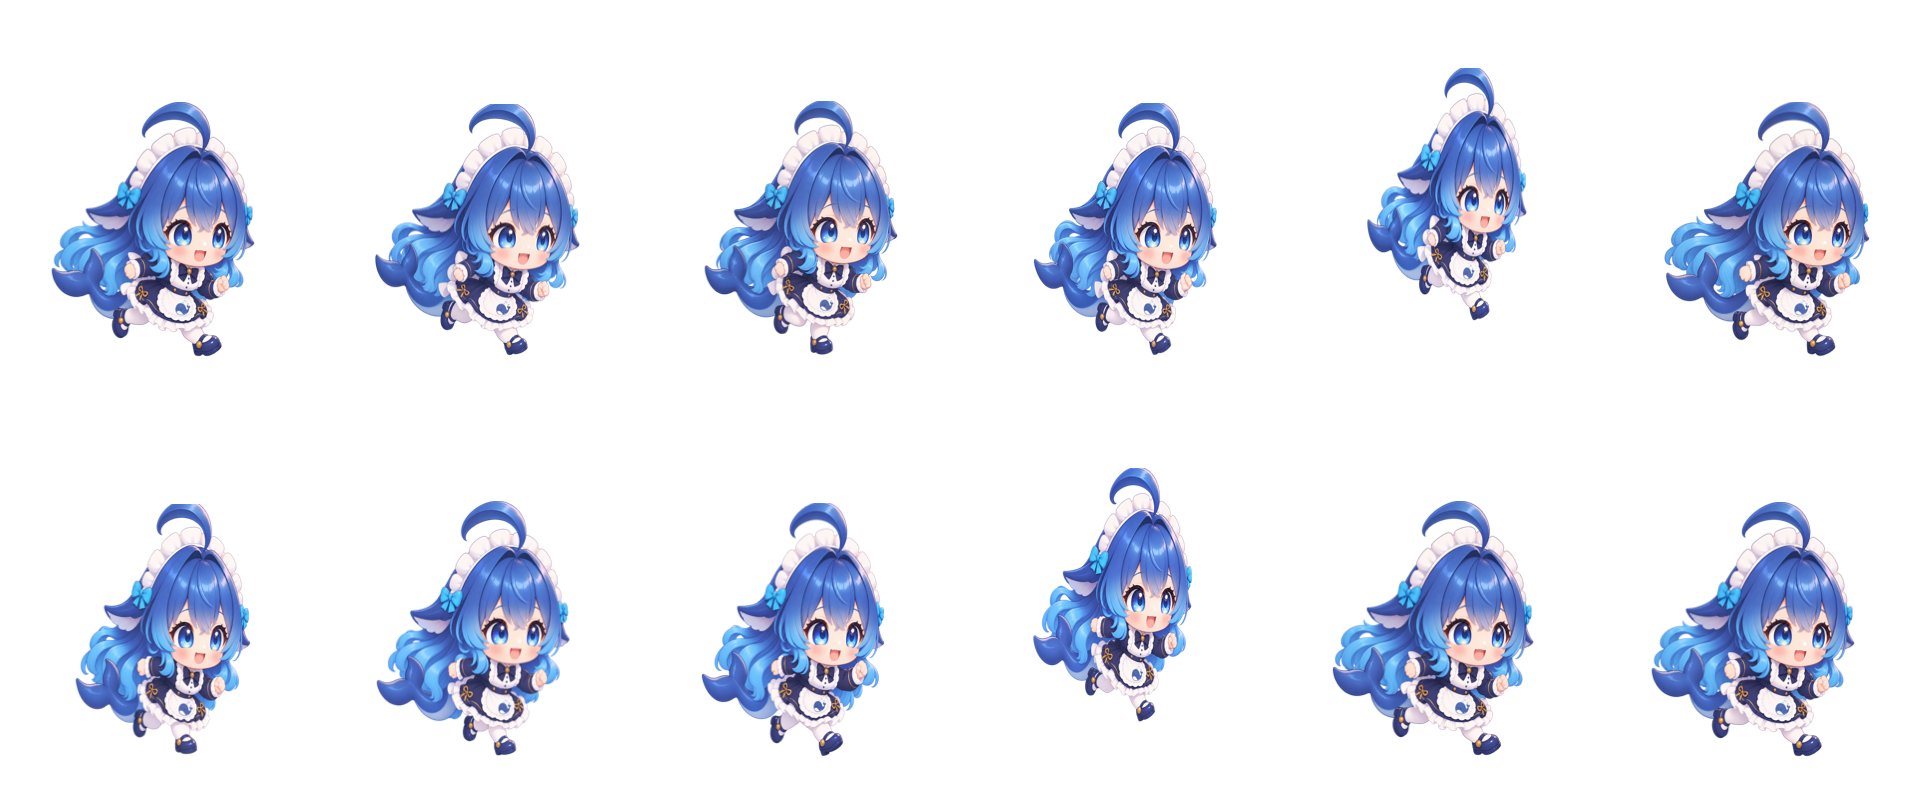
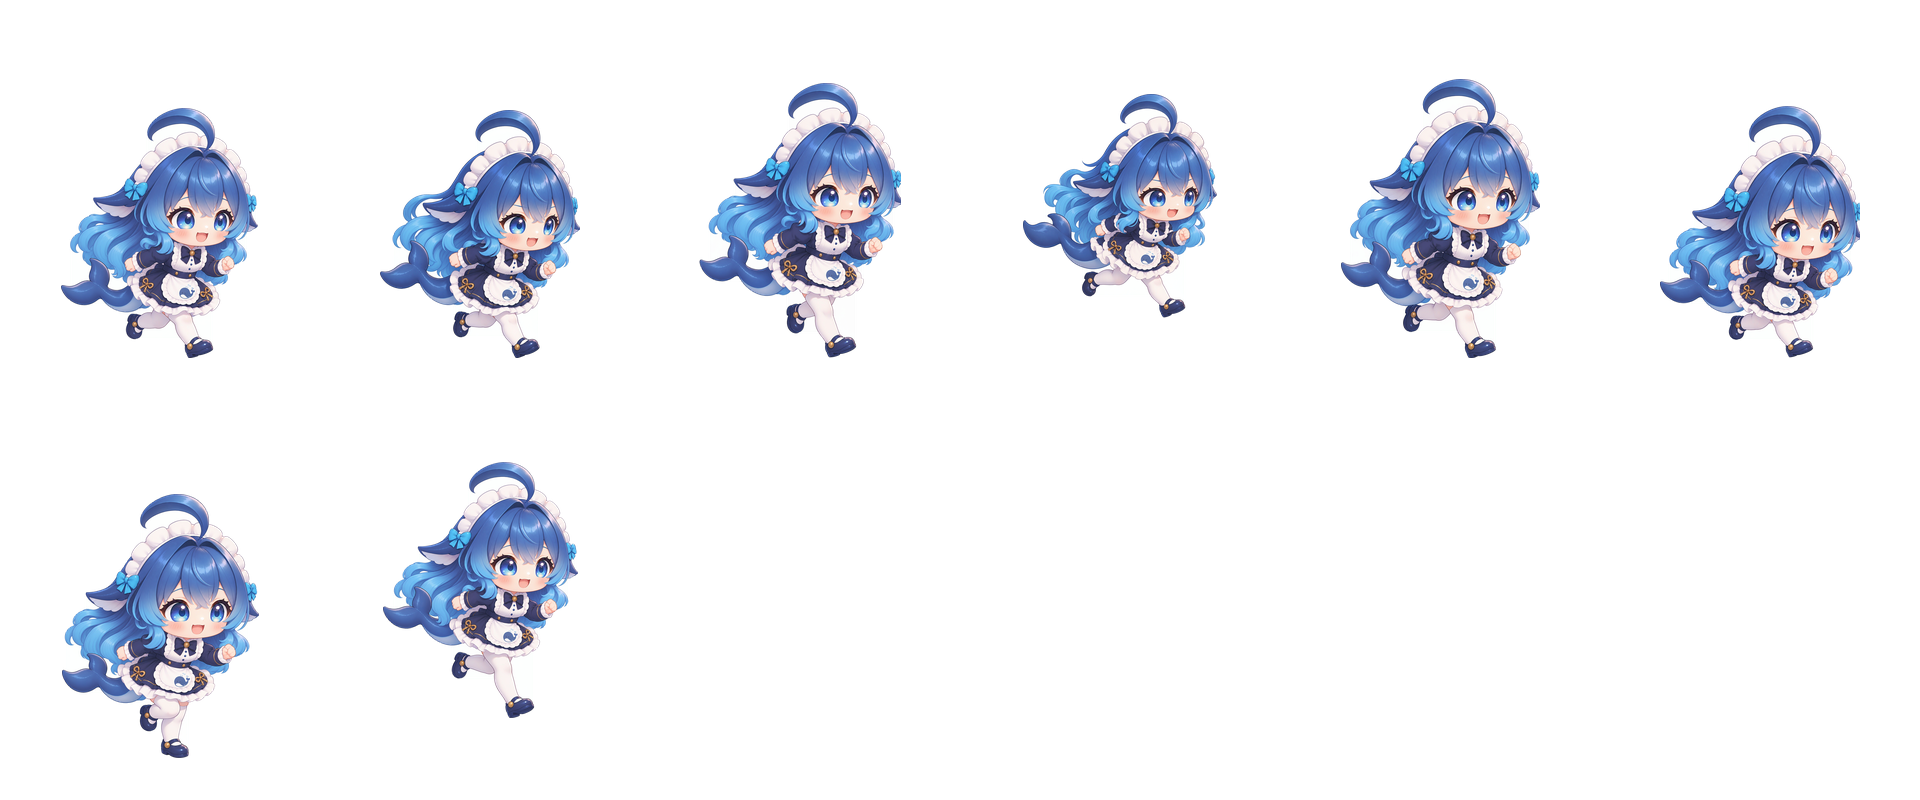
feat(pet): run 跑步用 AI 图生图重做 —— 8 帧版上线，run 验收告警清零
用户确认"可以随便用积分"后执行。上一版（外包返工）修对了腿的摆幅，
但整只角色在循环内被横向缩放 76%~101%（脉动两次），看起来"边跑边被捏扁"。
根因是**没人统一多帧尺寸** —— 这次换思路：

  **AI 只负责出姿势；尺寸一致性由合成保证，不靠生成碰运气。**

## 做法

1. **图生图**（现成姿势当参考 + input_fidelity 拉高）→ 角色一致性守住
2. **逐帧指定"这一帧是哪一拍"**：触地／压低／过渡／腾空，两步换腿
   （反面教材：Codex 那 19 张反复"画一个跑步姿势"，结果只有 2 个真姿势）
3. **抠背景**：模型会把"透明"画成棋盘格 → 按"每行最左/最右非背景像素"清外部区域，
   她本人的白色（裙子/头饰）不受影响
4. **全局单一缩放**（不是逐帧拉高）→ 保留"压低帧本来就矮"的身高变化
5. 走正规闸门装入：`intake-assets.py --accept run`（四道闸门全过 + 自动备份）

## 验收（三个版本对比）

| 指标 | 第一版 | 返工版 | **现役** | 目标 |
|---|---|---|---|---|
| 腿部可区分形状 | 4 | 9 | **5** | ≥4 |
| 腿部最大摆幅 | 22 列 | 62 列 | **109 列** | ≥60 |
| 循环内宽度范围 | 158~202 | 158~204 | **194~201** | 波动 ≤12% |
| 身高起落 | 2px | 2px | **56px（22%）** | ≥6% |
| 腾空间隔 | 5/7 帧 | 5/7 帧 | **4/4 帧** | 相等 |

8 帧 @11fps = 0.727s/循环 = **165 步/分**（真人跑步区间）。
**run 的验收告警：2 → 0。**

## 顺带纠正了自己两条判据（都是"照着想象写的"）

1. **「腿部姿态数 ≥8」是错的**：侧面视角 + 两条腿长得一样时，
   「右脚在前」和「左脚在前」轮廓**完全相同** → 可区分的腿型**最多 4 个**。
   判据改 ≥4，描述符从"每列腿像素"换成**腿部掩码 IoU**（前者区分不出左/右腿前）。
2. **「接地帧脚底起落 2~6px」也是错的**：压低时脚不离地、是**身体**下降。
   正确观测量是**身高跨度**。已改。

同时给位移类剪辑放宽身高容差（TOL_HEIGHT_LOCO），
原来的 ±14 是在"没有压低"的旧素材上标定的，那条规则反而惩罚正确的动画。

## 可复现

新增 `make-sprite-sheet.py`：单姿势图 → 精灵图（抠图 + 全局统一缩放 +
对齐接地线 + 腾空抬高 + 合成后自动复核）。**同参数重跑与已装入的 run.png
逐字节一致（md5 相同）**。源姿势图存 `assets/pet/源姿势/run/`（含说明），
以后改尺寸/接地线/腾空高度可直接重合成，**不用再花积分**。

回归：素材验收通过（5 条 WARN 全是 error 那支）、运行时 35/35、桥 21/21、
醒睡 11/11、状态推断 32/32。App 已重启加载新素材。

diff --git a/assets/pet/manifest.js b/assets/pet/manifest.js
@@ -72,12 +72,12 @@ window.PET_MANIFEST = {
     },
     "run": {
       "file": "run.png",
-      "frameCount": 12,
+      "frameCount": 8,
       "rows": 2,
-      "fps": 16,
+      "fps": 11,
       "loop": true,
       "loopStart": 1,
-      "loopEnd": 12,
+      "loopEnd": 8,
       "flipForLeft": true
     },
     "success": {

diff --git a/make-sprite-sheet.py b/make-sprite-sheet.py
@@ -1,0 +1,155 @@
+#!/usr/bin/env python3
+# -*- coding: utf-8 -*-
+"""把一组「单姿势图」合成成桌宠可用的精灵图（Sprite Sheet）。
+
+这条链路的最后一步，也是**唯一能保证"多帧尺寸一致"**的一步 ——
+生成模型保证不了（上一版 run 就是因为没人统一尺寸，被横向压窄 24%、
+循环内"胖瘦脉动"两次）。所以尺寸一致性**由合成保证，不靠生成碰运气**。
+
+用法：
+    python3 make-sprite-sheet.py --src <姿势图目录> --out assets/pet/run.png \
+        --frames 8 --air 4,8
+
+约定：
+  · 目录里的 png **按文件名排序 = 播放顺序**（生成时就按 01/02/… 命名）
+  · 背景自动抠掉：清掉"与画面边缘连通"的近似白/浅灰。
+    为什么不用简单阈值：角色本人有大片白色（裙子/头饰），阈值化会一起吃掉。
+    按"每行最左/最右的非背景像素"只在两侧清，角色内部的白色天然保留。
+  · **全局单一缩放**（--char-width）：所有帧用同一个系数。
+    ⚠ 不要逐帧拉齐高度 —— 那会把"压低帧本来就矮、腾空帧该收腿"抹掉，
+    等于把正确的动画改坏。
+  · 接地帧脚底对齐 --ground；腾空帧（--air）整体抬高 --lift
+  · 水平按轮廓包围盒居中到 --center
+
+退出码：0 = 成功
+"""
+import argparse
+import glob
+import os
+import sys
+
+import numpy as np
+from PIL import Image
+
+CELL_W, CELL_H, COLS = 320, 400, 6
+
+
+def keyout(path):
+    """清掉与画面边缘连通的近似白/浅灰背景 → 透明。"""
+    im = Image.open(path).convert("RGBA")
+    a = np.array(im).astype(int)
+    R, G, B = a[:, :, 0], a[:, :, 1], a[:, :, 2]
+    mx = np.maximum(np.maximum(R, G), B)
+    mn = np.minimum(np.minimum(R, G), B)
+    bgish = (mn >= 222) & ((mx - mn) <= 12)
+    fg = ~bgish
+    h, w = bgish.shape
+    keep = np.zeros((h, w), bool)
+    for y in range(h):
+        idx = np.where(fg[y])[0]
+        if len(idx):
+            keep[y, idx.min():idx.max()+1] = True
+    for x in range(w):
+        idx = np.where(keep[:, x])[0]
+        if len(idx):
+            keep[idx.min():idx.max()+1, x] = True
+    alpha = np.where(keep, 255, 0).astype(np.uint8)
+    return Image.fromarray(np.dstack([a[:, :, :3].astype(np.uint8), alpha]), "RGBA")
+
+
+def tight(im):
+    a = np.array(im.split()[-1]) > 128
+    ys = np.where(a.any(axis=1))[0]
+    xs = np.where(a.any(axis=0))[0]
+    return im.crop((xs.min(), ys.min(), xs.max()+1, ys.max()+1))
+
+
+def main():
+    ap = argparse.ArgumentParser()
+    ap.add_argument("--src", required=True, help="姿势图目录")
+    ap.add_argument("--out", required=True, help="输出的精灵图路径")
+    ap.add_argument("--frames", type=int, help="帧数（默认=目录里的 png 数量）")
+    ap.add_argument("--air", default="", help="腾空帧号，逗号分隔，如 4,8")
+    ap.add_argument("--lift", type=int, default=40, help="腾空帧整体抬高多少 px")
+    ap.add_argument("--ground", type=int, default=358, help="接地线 y（脚底落在这里）")
+    ap.add_argument("--center", type=int, default=160, help="水平中心 x")
+    ap.add_argument("--char-width", type=int, default=202,
+                    help="角色目标宽度（最宽的一帧缩到这个宽度，其余同系数）")
+    ap.add_argument("--no-key", action="store_true", help="跳过抠图（源图已是透明）")
+    args = ap.parse_args()
+
+    srcs = sorted(glob.glob(os.path.join(args.src, "*.png")))
+    if args.no_key:
+        srcs = sorted(glob.glob(os.path.join(args.src, "*.png")))
+    if not srcs:
+        print("FAIL: %s 里没有 png" % args.src)
+        return 1
+    n = args.frames or len(srcs)
+    if len(srcs) < n:
+        print("FAIL: 需要 %d 帧，目录里只有 %d 张" % (n, len(srcs)))
+        return 1
+    srcs = srcs[:n]
+
+    outdir = os.path.dirname(os.path.abspath(args.out))
+    tmpkey = os.path.join(outdir, ".key")
+    os.makedirs(tmpkey, exist_ok=True)
+
+    print("=== 1/3 抠图 ===")
+    poses = []
+    for i, p in enumerate(srcs):
+        im = tight(keyout(p) if not args.no_key else Image.open(p).convert("RGBA"))
+        poses.append(im)
+        print("  #%d %s  %dx%d" % (i+1, os.path.basename(p), im.width, im.height))
+
+    print()
+    print("=== 2/3 统一缩放（K 由最宽的一帧决定）===")
+    maxw = max(p.width for p in poses)
+    K = args.char_width / float(maxw)
+    print("  最宽帧 %dpx → %dpx，K = %.5f" % (maxw, args.char_width, K))
+
+    rows = (n + COLS - 1) // COLS
+    sheet = Image.new("RGBA", (CELL_W*COLS, CELL_H*rows), (0, 0, 0, 0))
+    air = {int(x) for x in args.air.split(",") if x.strip()}
+
+    print()
+    print("=== 3/3 贴进精灵图 ===")
+    print("  %-4s %-11s %-16s %s" % ("帧", "缩放后", "贴到画布", "说明"))
+    for i, im in enumerate(poses):
+        idx = i + 1
+        nw = max(1, int(round(im.width*K)))
+        nh = max(1, int(round(im.height*K)))
+        t = im.resize((nw, nh), Image.LANCZOS)
+        bottom = args.ground - (args.lift if idx in air else 0)
+        left = args.center - nw//2
+        top = bottom - nh
+        r, c = divmod(i, COLS)
+        sheet.alpha_composite(t, (c*CELL_W + left, r*CELL_H + top))
+        print("  #%-3d %-11s %-16s %s" % (idx, "%dx%d" % (nw, nh),
+              "x=%d y=%d" % (left, top),
+              "腾空（抬高 %dpx）" % args.lift if idx in air else "接地"))
+
+    sheet.save(args.out)
+    print()
+    print("已写出: %s  %dx%d（%d 列 × %d 行，%d 帧）"
+          % (args.out, sheet.width, sheet.height, COLS, rows, n))
+
+    # 立刻复核一遍（合成后重新量，防止"以为对上了其实没有"）
+    A = np.array(sheet.split()[-1]) > 128
+    print()
+    print("=== 合成后复核 ===")
+    print("  %-4s %6s %6s %8s %8s" % ("帧", "宽", "高", "脚底y", "中心x"))
+    for i in range(n):
+        r, c = divmod(i, COLS)
+        m = A[r*CELL_H:(r+1)*CELL_H, c*CELL_W:(c+1)*CELL_W]
+        ys = np.where(m.any(axis=1))[0]
+        xs = np.where(m.any(axis=0))[0]
+        print("  #%-3d %6d %6d %8d %8.1f"
+              % (i+1, xs.max()-xs.min()+1, ys.max()-ys.min()+1,
+                 ys.max(), (xs.min()+xs.max())/2.0))
+    print()
+    print("下一步：python3 verify-assets.py 验收")
+    return 0
+
+
+if __name__ == "__main__":
+    sys.exit(main())

diff --git a/README.md b/README.md
@@ -242,7 +242,8 @@ web/pet.js              胶水层：拉状态 + 指针事件 + 宿主通信
 desktop/main.swift      Swift 透明窗口宿主（无边框 / 置顶 / 鼠标穿透 / 全局快捷键）
 assets/pet/             角色素材（10 个 Sprite Sheet + manifest.json / manifest.js）
 
-verify-assets.py        素材逐帧验收（几何 / 循环接缝 / 透明度 / 步幅 / 横向缩放 / 腾空间隔）
+verify-assets.py        素材逐帧验收（几何 / 循环接缝 / 透明度 / 步幅 / 横向缩放 / 腾空间隔 / 身高起落）
+make-sprite-sheet.py    单姿势图 → 精灵图（抠背景 + 全局统一缩放 + 对齐接地线）★尺寸一致性的保证
 intake-assets.py        素材接收：扫桌面&下载的交付包 → 验收 → 通过才安装（默认只新增不覆盖）
 build-manifest-js.py    manifest.json → manifest.js（让 file:// 也能读到）
 pet-runtime.test.html   动画运行时回归测试（35 项）
@@ -321,20 +322,23 @@ desktop/WorkBuddyPet.app/Contents/MacOS/WorkBuddyPet --selftest-save
 
 ## 已知问题
 
-- **`run`（跑步）返工后已可用。** 逐项实测（返工前 → 后）：
+- **`run`（跑步）已用 AI 图生图重做，8 帧版上线。** 逐项对比：
 
-  | 指标 | 返工前 | 返工后 | 目标 |
-  |---|---|---|---|
-  | 腿部水平姿态数 | 4 | **9** | ≥8 |
-  | 腿部最大摆幅 | 22 列 | **62 列** | ≥60 |
-  | 躯干左右变化 | 5 px | **37 px** | ≥12 |
+  | 指标 | 第一版（外包） | 第二版（外包返工） | **现役（AI 生成 + 合成）** | 目标 |
+  |---|---|---|---|---|
+  | 腿部可区分形状 | 4（摆幅仅 22 列）| 9（摆幅 62 列）| **5（摆幅 109 列）** | ≥4 且摆幅 ≥60 |
+  | 循环内宽度脉动 | 100→78%（−22%）| 100→78%（−22%）| **194~201（±2%）** | ≤12% |
+  | 身高起落（压低感）| 2px（≈0）| 2px（≈0）| **56px（22%）** | ≥6% |
+  | 腾空间隔 | 5/7 帧（不对称）| 5/7 帧（不对称）| **4/4 帧（对称）** | 相等 |
+  | 帧数 / 帧率 | 12 @ 16fps | 12 @ 16fps | **8 @ 11fps** | 步频 160~180/分 |
 
-  对比图：`docs/run-返工前后对比.png`；返工要求：`docs/run-返工说明.md`。
+  8 帧 @11fps = 0.727 秒/循环 = **165 步/分**（真人跑步区间）。
+  源姿势图与重新合成方法：`assets/pet/源姿势/run/说明.md`。
 
-  仍有两处**小瑕疵（不阻塞）**：
-  1. 两次腾空落在第 5、10 帧，间隔是 **5 帧 / 7 帧**（两步循环应各 6 帧），
-     对应步时 0.31s vs 0.44s —— 细看能感觉到一点点"跛"
-  2. 接地帧脚底起落只有 **2px**（"压低"那一拍偏浅，目标 2~6px）
+  为什么第二版"修好了腿"却仍然不能用：**外包返工改对了腿的摆幅，
+  但整只角色在循环内被横向缩放 76%~101%（脉动两次）**，
+  看起来是"边跑边被捏扁"。根因是没人统一多帧尺寸 ——
+  所以新的做法是 **AI 只负责出姿势，尺寸一致性由 `make-sprite-sheet.py` 保证**。
 - **`error`（出错）状态在 WorkBuddy 源下永远不会出现** —— WorkBuddy 的会话记录里
   没有错误类型的记录，推不出来。Codex 源能给出（`turn_aborted`）。
   所以头顶那个 `!` 在 WorkBuddy 下看不到，属**已知限制**，不是坏了。

diff --git a/docs/run-候选姿势分析.md b/docs/run-候选姿势分析.md
@@ -98,3 +98,52 @@
 代价是：不再有"跑"这个动作。
 
 `⌥⌘H` / 双击 / 右键 触发什么，由用户定。
+
+---
+
+# 六、执行结果（已完成，2026-09-23 19:0x）
+
+用户确认"可以随便用积分"后按上面的方案执行完毕。
+
+## 产出
+
+- **8 帧全部生成完成**（图生图，角色一致性守住）
+- 抠图 → 全局统一缩放 → 对齐接地线 → 拼成 6 列 × 2 行精灵图
+- **走正规投递流程装入**：`intake-assets.py --accept run`（四道闸门全过，
+  旧版自动备份到 `assets/.backup/20260923-190027/`）
+- manifest：`frameCount 8 / fps 11 / loopEnd 8`
+
+## 验收数字（与两个外包版本对比）
+
+| 指标 | 第一版 | 返工版 | **现役（AI 生成）** | 目标 |
+|---|---|---|---|---|
+| 腿部可区分形状 | 4 | 9 | **5** | ≥4 |
+| 腿部最大摆幅 | 22 列 | 62 列 | **109 列** | ≥60 |
+| 循环内宽度范围 | 158~202 | 158~204 | **194~201** | 波动 ≤12% |
+| 身高起落 | 2px | 2px | **56px（22%）** | ≥6% |
+| 腾空间隔 | 5/7 帧 | 5/7 帧 | **4/4 帧** | 相等 |
+
+**run 在 `verify-assets.py` 里的告警数：2 → 0。**
+
+## 两条判据被这次实践纠正了（重要）
+
+1. **「腿部姿态数 ≥8」是错的。** 侧面视角 + 两条腿长得一样时，
+   「右脚在前」和「左脚在前」的**轮廓完全相同** → 可区分的腿部形状**最多 4 个**
+   （触地／压低／过渡／腾空），两步循环里各出现两次。
+   真正决定"像不像跑"的是**摆幅**（腿在不在动）和**身高起落**（有没有压低）。
+   已改成 ≥4，并把描述符从"每列的腿像素"换成**腿部掩码 IoU**（前者区分不出"左腿前/右腿前"）。
+2. **「接地帧脚底起落 2~6px」也是错的。** 压低时脚不离地、是**身体**下降，
+   脚底高度本来就不变。正确的观测量是**角色身高的跨度**。已改。
+
+> 教训：判据要对着"物理上真正会变的东西"写。
+> 我前两条都是**照着想象**写的，对着真实素材一跑就露馅 ——
+> 好在都写成了自动检查，所以露馅是自动的。
+
+## 沉淀下来的工具
+
+`make-sprite-sheet.py` —— 单姿势图 → 精灵图（抠背景 + 全局统一缩放 +
+对齐接地线 + 腾空抬高 + 合成后自动复核）。**用同样的参数重跑，
+产出与已装入的 run.png 逐字节一致（md5 相同）**，所以这条链路是可复现的。
+
+源姿势图留在 `assets/pet/源姿势/run/`（含说明），
+以后要改尺寸/接地线/腾空高度可以直接重新合成，**不用再花积分**。

diff --git a/assets/pet/源姿势/run/说明.md b/assets/pet/源姿势/run/说明.md
@@ -1,0 +1,44 @@
+# 源姿势图（run）
+
+这 8 张是 `assets/pet/run.png` 的**原始姿势图**，由 AI 图生图生成（2026-09-23）。
+留着它们的目的：**以后想改合成参数（大小、接地线、腾空高度、帧序）可以直接重做，
+不用重新生成、不再花积分。**
+
+## 播放顺序 = 文件名顺序
+
+| 文件 | 这一帧 | 腾空 |
+|---|---|---|
+| 01.png | 第1帧 触地（右腿承重）| |
+| 02.png | 第2帧 压低（右腿承重）| |
+| 03.png | 第3帧 过渡 | |
+| 04.png | 第4帧 腾空 | ✈ |
+| 05.png | 第5帧 触地（左腿承重）| |
+| 06.png | 第6帧 压低（左腿承重）| |
+| 07.png | 第7帧 过渡 | |
+| 08.png | 第8帧 腾空 | ✈ |
+
+## 重新合成
+
+```bash
+cd ~/Desktop/WorkBuddy用量
+python3 make-sprite-sheet.py --src "assets/pet/源姿势/run" \
+    --out assets/pet/run.png --frames 8 --air 4,8
+python3 verify-assets.py          # 必须通过
+```
+
+改参数：`--char-width 202`（角色宽度）、`--ground 358`（接地线）、
+`--lift 40`（腾空抬高）、`--center 160`（水平中心）。
+
+## 生成时的关键做法（下次照着来）
+
+1. **图生图 + 参考图**：拿一张满意的现成姿势当参考，`input_fidelity` 拉高，
+   角色一致性才有保障（纯文生图每次都会画成"另一个人"）。
+2. **逐帧指定"这一帧是哪一拍"**：触地／压低／过渡／腾空，两步换腿。
+   ⚠ 不要只写"画一个跑步姿势"——那样得到的是**同一姿势的 N 个变体**，
+   不是姿势的序列（Codex 那 19 张就是这么废掉的：19 张里只有 2 个真姿势）。
+3. **模型会把"透明背景"画成棋盘格** —— 不要指望它出透明图，
+   交给 `make-sprite-sheet.py` 抠（它只清与边缘连通的部分，不会吃掉她本人的白色）。
+4. **尺寸一致性靠合成，不靠生成**：逐帧拉齐高度会毁掉"压低/腾空"的身高变化，
+   所以脚本用**全局单一缩放系数**。
+
+完整分析过程见 `docs/run-候选姿势分析.md`。

diff --git a/docs/给制作方的说明.md b/docs/给制作方的说明.md
@@ -1,5 +1,9 @@
 # 给制作方的说明（可直接转发）
 
+> ⚠ **本文已作废（2026-09-23 19:0x）**：这批返工**没有发给制作方**，
+> 改成用 AI 图生图自己做掉了。原因与结果见 `run-候选姿势分析.md`。
+> 本文保留，作为"如果还要外包，该怎么验收"的标准。
+
 以下内容可以整段复制发给制作方。
 
 ---
